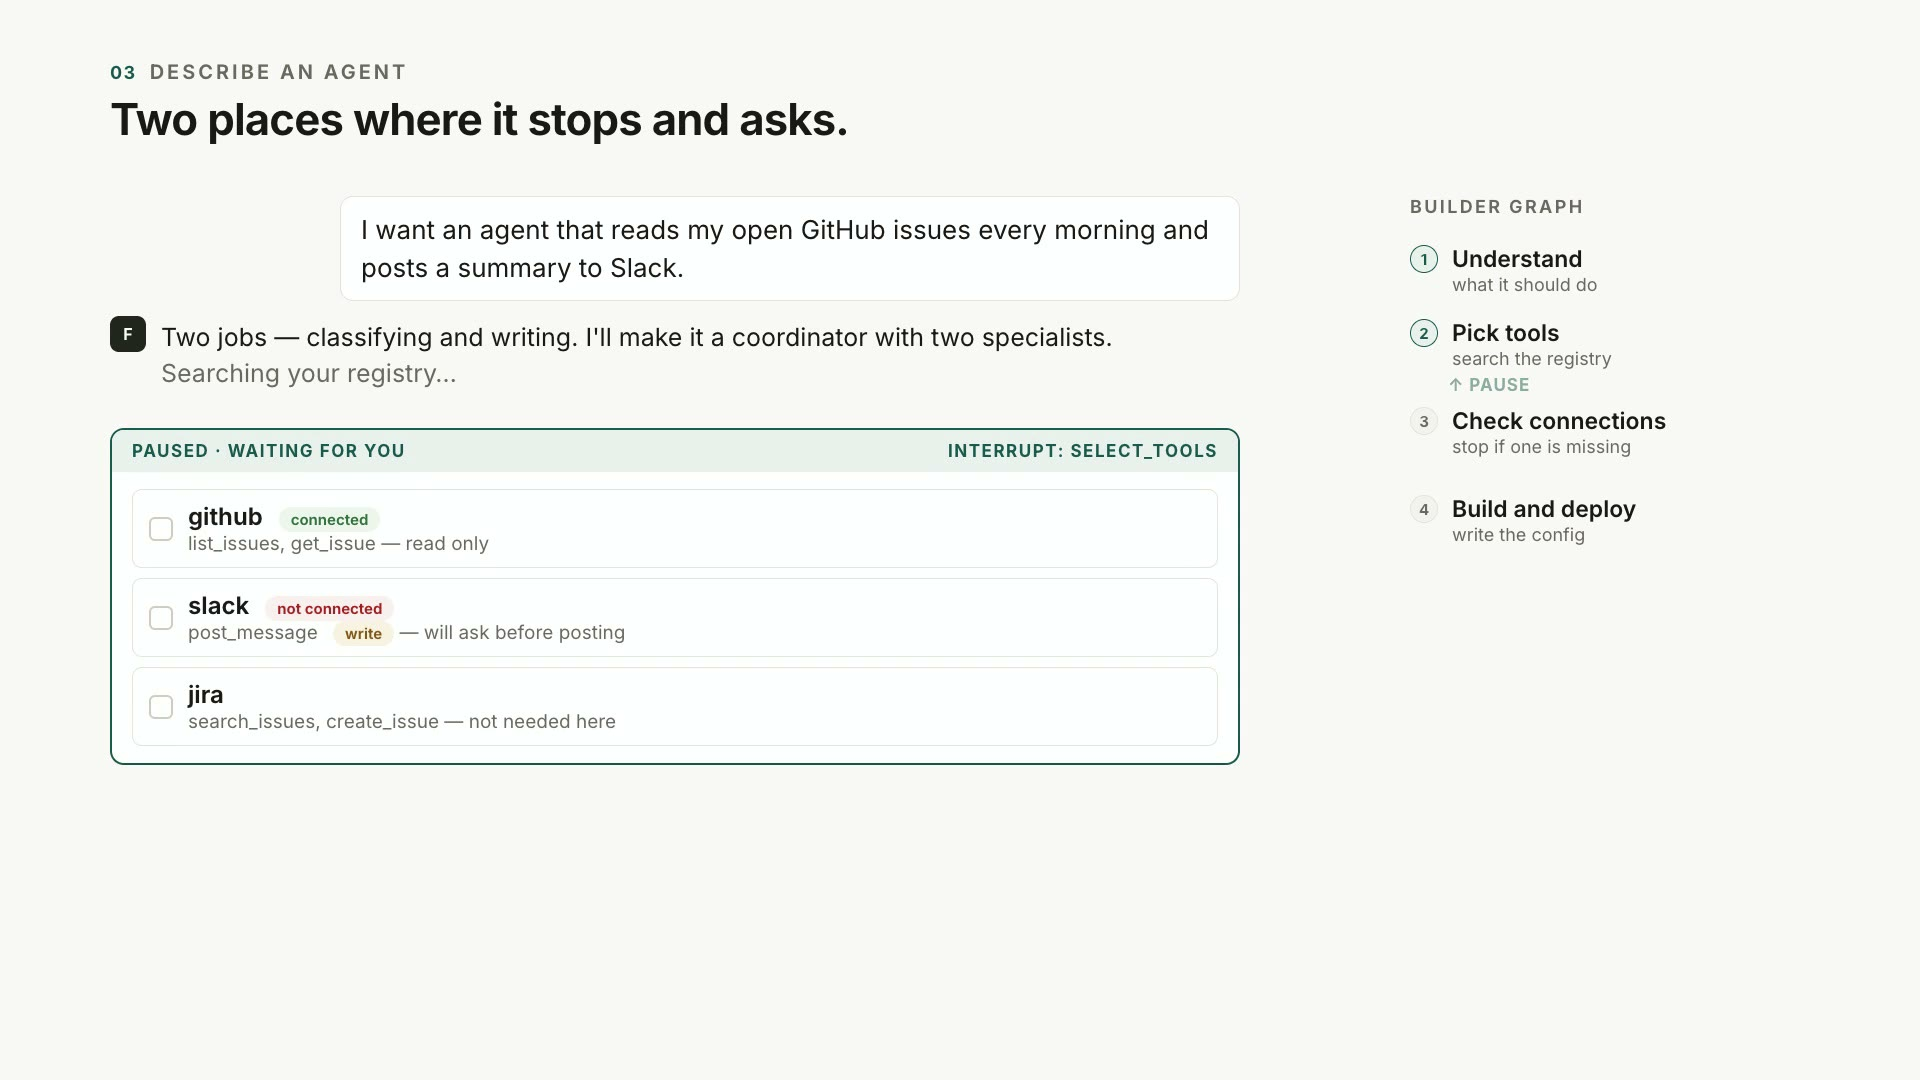
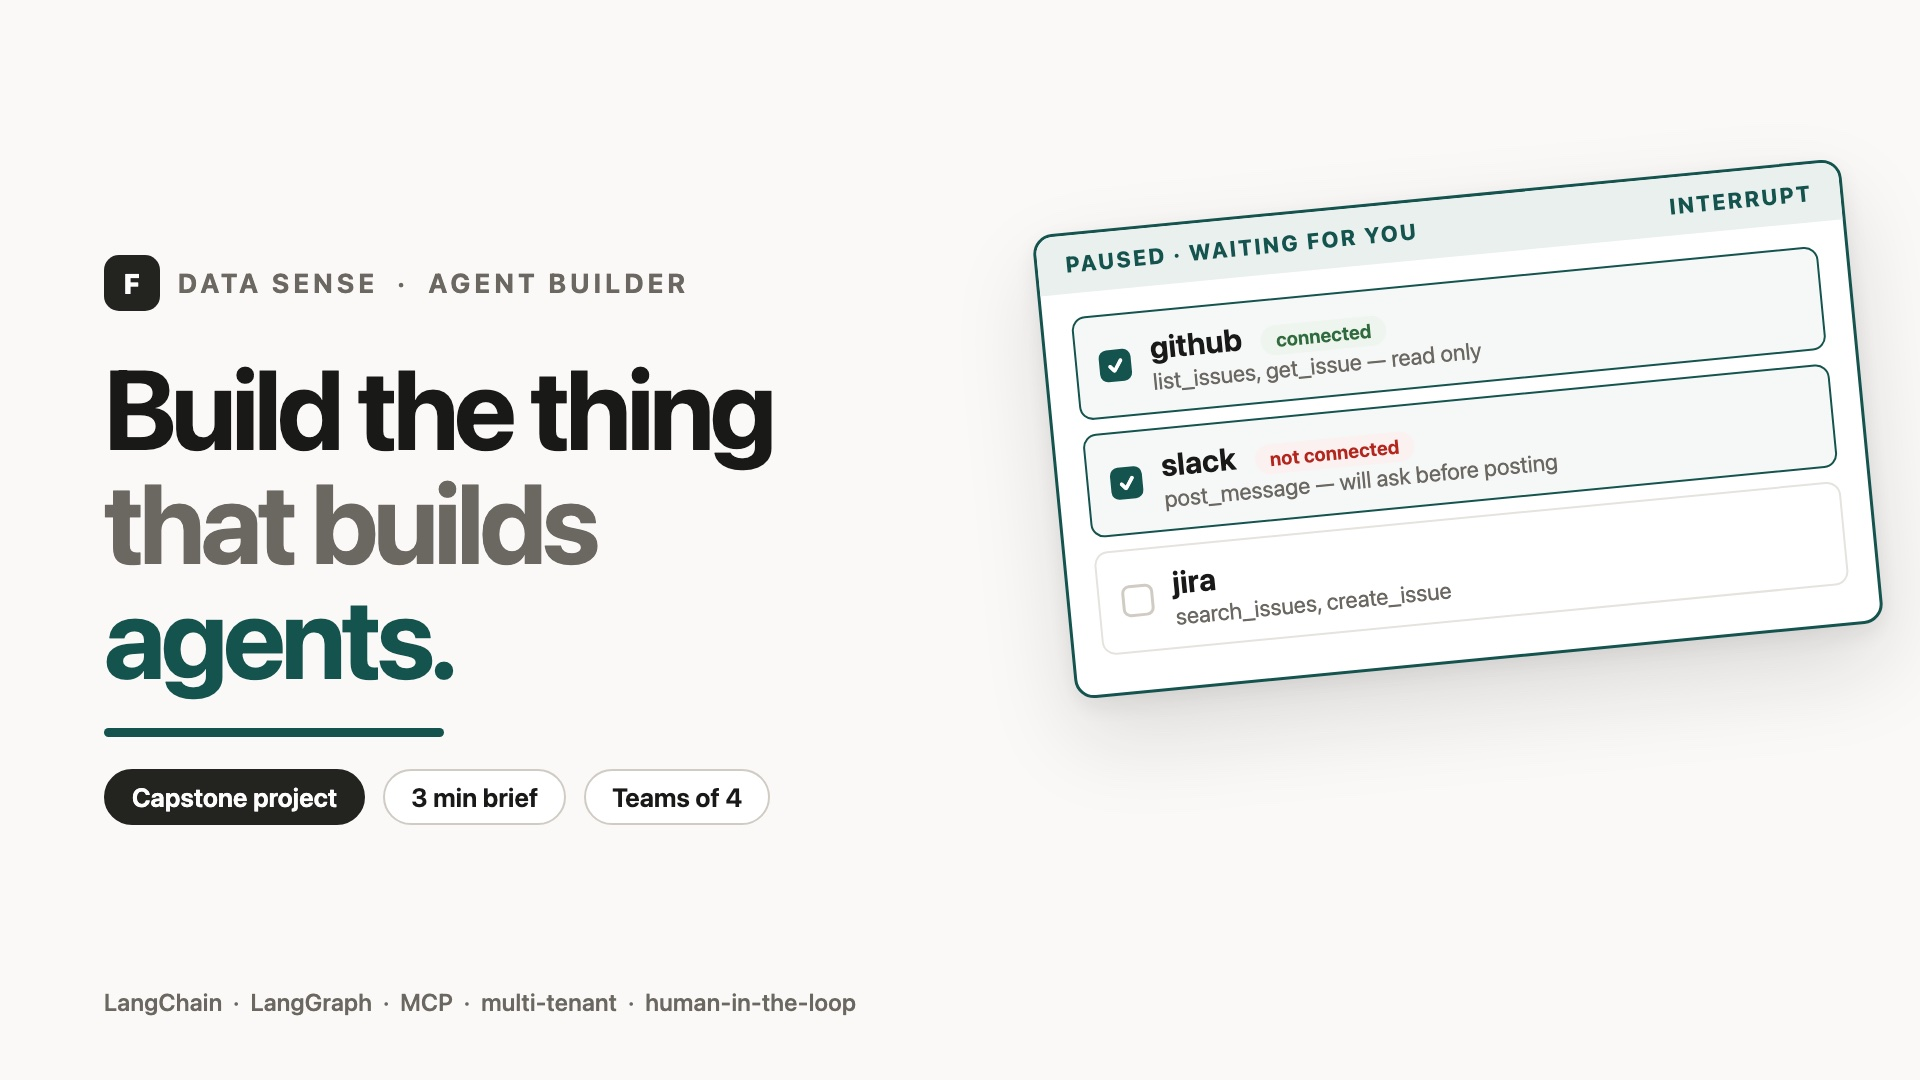
Add capstone thumbnail, announcement post, and team/deadline details
Teams of four, registration by DM, 20 September deadline, presentations
from the 21st. Designed thumbnail also serves as the video poster.

diff --git a/docs/video/thumbnail.source.html b/docs/video/thumbnail.source.html
@@ -1,0 +1,109 @@
+<!doctype html>
+<html>
+<head><meta charset="utf-8">
+<style>
+  * { margin:0; padding:0; box-sizing:border-box; }
+  html, body { width:1920px; height:1080px; overflow:hidden; }
+  body {
+    background:#faf9f7; color:#191917;
+    font-family: system-ui, -apple-system, "Helvetica Neue", Arial, sans-serif;
+    position:relative;
+  }
+
+  /* right-hand UI fragment, tilted */
+  .fragment {
+    position:absolute; right:56px; top:196px; width:812px;
+    transform: rotate(-5.5deg); transform-origin: center;
+  }
+  .panel {
+    background:#fff; border:3px solid #15544e; border-radius:20px; overflow:hidden;
+    box-shadow: 0 40px 90px rgba(25,25,23,.13), 0 8px 22px rgba(25,25,23,.07);
+  }
+  .ph {
+    background:#e9f0ee; color:#15544e; padding:16px 28px;
+    font-size:22px; font-weight:750; letter-spacing:.11em; text-transform:uppercase;
+    display:flex; justify-content:space-between; align-items:center;
+  }
+  .pb { padding:24px 28px; }
+  .pick { display:flex; align-items:center; gap:20px; padding:17px 22px;
+          border:2px solid #e5e3dd; border-radius:14px; margin-bottom:14px; }
+  .pick.on { border-color:#15544e; background:#f5f8f7; }
+  .box { width:32px; height:32px; flex:0 0 32px; border-radius:8px; border:3px solid #d0ccc4;
+         background:#fff; display:grid; place-items:center; color:#fff; font-size:19px; font-weight:900; }
+  .pick.on .box { background:#15544e; border-color:#15544e; }
+  .nm { font-size:31px; font-weight:660; }
+  .sb { font-size:23px; color:#6b6862; margin-top:2px; }
+  .tag { border-radius:999px; padding:4px 15px; font-size:19px; font-weight:680; margin-left:12px; }
+  .tag.ok { background:#eef4ee; color:#2f6b3c; }
+  .tag.no { background:#fbf1f0; color:#b3261e; }
+
+  /* left-hand type */
+  .left { position:absolute; left:104px; top:0; bottom:0; width:1000px;
+          display:flex; flex-direction:column; justify-content:center; }
+  .eyebrow { display:flex; align-items:center; gap:18px; margin-bottom:40px; }
+  .mark { width:56px; height:56px; border-radius:15px; background:#23231f; color:#fdfdfc;
+          display:grid; place-items:center; font-size:28px; font-weight:800; }
+  .ename { font-size:27px; font-weight:700; letter-spacing:.15em; text-transform:uppercase; color:#6b6862; }
+
+  h1 { font-size:112px; font-weight:700; letter-spacing:-.038em; line-height:1.02; }
+  h1 .g { color:#6b6862; }
+  h1 .t { color:#15544e; }
+  .rule { width:340px; height:9px; background:#15544e; border-radius:5px; margin:34px 0 32px; }
+
+  .meta { display:flex; align-items:center; gap:18px; }
+  .pill { border:2px solid #d0ccc4; border-radius:999px; padding:11px 26px;
+          font-size:26px; font-weight:640; color:#191917; background:#fff; }
+  .pill.solid { background:#23231f; border-color:#23231f; color:#fdfdfc; }
+
+  .corner {
+    position:absolute; left:104px; bottom:64px;
+    font-size:24px; color:#6b6862; font-weight:550; letter-spacing:.01em;
+  }
+</style>
+</head>
+<body>
+
+  <div class="fragment">
+    <div class="panel">
+      <div class="ph"><span>Paused · waiting for you</span><span>interrupt</span></div>
+      <div class="pb">
+        <div class="pick on">
+          <div class="box">✓</div>
+          <div><div class="nm">github <span class="tag ok">connected</span></div>
+               <div class="sb">list_issues, get_issue — read only</div></div>
+        </div>
+        <div class="pick on">
+          <div class="box">✓</div>
+          <div><div class="nm">slack <span class="tag no">not connected</span></div>
+               <div class="sb">post_message — will ask before posting</div></div>
+        </div>
+        <div class="pick">
+          <div class="box"></div>
+          <div><div class="nm">jira</div>
+               <div class="sb">search_issues, create_issue</div></div>
+        </div>
+      </div>
+    </div>
+  </div>
+
+  <div class="left">
+    <div class="eyebrow">
+      <span class="mark">F</span>
+      <span class="ename">Data Sense &nbsp;·&nbsp; Agent Builder</span>
+    </div>
+
+    <h1>Build the thing<br><span class="g">that builds</span><br><span class="t">agents.</span></h1>
+
+    <div class="rule"></div>
+
+    <div class="meta">
+      <span class="pill solid">Capstone project</span>
+      <span class="pill">3 min brief</span>
+      <span class="pill">Teams of 4</span>
+    </div>
+  </div>
+
+  <div class="corner">LangChain &nbsp;·&nbsp; LangGraph &nbsp;·&nbsp; MCP &nbsp;·&nbsp; multi-tenant &nbsp;·&nbsp; human-in-the-loop</div>
+
+</body>
+</html>

diff --git a/docs/index.html b/docs/index.html
@@ -85,6 +85,15 @@
     </div>
   </div>
 
+  <div class="req" style="margin-top:28px">
+    <div class="rh">Teams, deadline and presentations</div>
+    <div class="reqlist" style="margin-top:8px">
+      <div class="reqrow"><span class="pin">1</span><span class="t">Groups of <b>four only</b>. DM your team name and the four members to register — unregistered teams are not assessed.</span></div>
+      <div class="reqrow"><span class="pin">2</span><span class="t">You have <b>two weeks</b>. Submission deadline <b>20 September</b>.</span></div>
+      <div class="reqrow"><span class="pin">3</span><span class="t">Presentations start <b>21 September</b> — 45 minutes per team, live, with the system running.</span></div>
+    </div>
+  </div>
+
   <div class="section-title">Watch the brief</div>
   <div class="card" style="padding:14px">
     <video controls preload="metadata" playsinline poster="video/poster.jpg"

diff --git a/ANNOUNCEMENT.md b/ANNOUNCEMENT.md
@@ -1,0 +1,94 @@
+# Capstone announcement — paste-ready
+
+Attach: `docs/video/capstone-brief.mp4` · thumbnail `docs/video/thumbnail.png`
+
+---
+
+## Full post
+
+**Capstone Project — Build an Agent Platform**
+
+Over the last few weeks you've learned LangChain and LangGraph — graphs, state, tools, interrupts,
+checkpointers, multi-agent handoffs. Your capstone puts all of it into one product.
+
+**You are not building an agent. You are building the thing that builds agents.**
+
+A person signs in, describes an agent in plain English, and your platform works out which tools it
+needs, checks they have access to those tools, builds it and deploys it. They test it in a chat
+window. When it works, they publish it — an admin reviews it, and once approved, people in other
+companies can install it into their own workspace with their own credentials.
+
+Three tabs: an **MCP Registry**, a **Build** chat, and **My Agents**. Plus a marketplace everyone can
+install from, and an admin queue guarding the door to it.
+
+Watch the 3-minute brief above before you read anything else. 👆
+
+**Everything you need**
+
+- 📋 Problem statement — https://fnusatvik07.github.io/agent-platform-capstone/brief.html
+- 🖼 The UI you have to build — https://fnusatvik07.github.io/agent-platform-capstone/
+- ✦ The build flow (start here) — https://fnusatvik07.github.io/agent-platform-capstone/screens/build.html
+- 🎞 Slides — https://fnusatvik07.github.io/agent-platform-capstone/deck/
+- 💻 Repo — https://github.com/fnusatvik07/agent-platform-capstone
+
+There is deliberately **no starter code**. Designing the data model, the API and the agent
+configuration format *is* the capstone.
+
+**Teams**
+
+- Groups of **four only**. Not three, not five.
+- **DM me your team name and the four members** to register. Unregistered teams will not be
+  assessed.
+- Register before you start building.
+
+**Timeline**
+
+- You have **two weeks**.
+- **Submission deadline: 20 September.**
+- **Presentations start 21 September.** Each team presents live for 45 minutes — demo the flow,
+  walk through your design, and answer for the choices you made. Bring the running system; slides
+  alone will not do.
+
+**How you'll be graded**
+
+Nine checks, each one a pass or a fail, and all of them get run against your submission. Among them:
+we will delete your tenant filter and try to read another user's agents, we will search everything
+your system stored for a credential we gave you, and we will kill your server mid-build to see if it
+resumes. The full list is at the end of the problem statement — read it before you design anything.
+
+**One last thing:** nothing in this project requires a paid account. Free model tiers, or a model on
+your own machine, are fine. And don't plan on LangGraph Platform — it isn't free, and self-hosting
+its server needs a paid licence key. Run your own server from day one.
+
+Questions in the thread. Good luck. 🚀
+
+---
+
+## Short version — for a chat / reminder
+
+**Capstone is live: build an agent platform.** 🎥 3-min brief attached.
+
+You're building the platform that *builds* agents — MCP registry, a chat that assembles an agent for
+you, a playground to test it, and a human-reviewed marketplace.
+
+📋 Brief: https://fnusatvik07.github.io/agent-platform-capstone/brief.html
+🖼 The UI to build: https://fnusatvik07.github.io/agent-platform-capstone/
+
+**Teams of 4 only.** DM me your team name + members to register.
+**Deadline: 20 September.** Presentations start 21 September — 45 minutes per team, live, with the
+system running.
+
+No starter code, and nothing here needs a paid account.
+
+---
+
+## Reminder — a few days before the deadline
+
+Capstone check-in ⏳
+
+- Deadline is **20 September**. Presentations start the **21st**.
+- If you haven't registered your team of four with me yet, DM me today.
+- Before you submit, run the nine checks yourself — they're at the end of the brief:
+  https://fnusatvik07.github.io/agent-platform-capstone/brief.html
+- The two that catch most teams: a credential turning up in a trace, and a build that doesn't
+  resume after the server restarts.

diff --git a/PROBLEM-STATEMENT.md b/PROBLEM-STATEMENT.md
@@ -233,6 +233,13 @@ can produce agents shaped like this, and not just simple ones.
 | **3. A design document** | One or two pages: how you made each rule true, and what you would do differently with another month. |
 | **4. The multi-agent demo agent** | Built through your own platform. |
 
+### Teams and dates
+
+- **Groups of four only.** Not three, not five.
+- **Register by DMing your team name and the four members.** Unregistered teams are not assessed.
+- **You have two weeks. The submission deadline is 20 September.**
+- **Presentations start 21 September.**
+
 ### The presentation
 
 You will present your work **live for 45 minutes**. Plan for roughly:

diff --git a/docs/problem-statement.md b/docs/problem-statement.md
@@ -233,6 +233,13 @@ can produce agents shaped like this, and not just simple ones.
 | **3. A design document** | One or two pages: how you made each rule true, and what you would do differently with another month. |
 | **4. The multi-agent demo agent** | Built through your own platform. |
 
+### Teams and dates
+
+- **Groups of four only.** Not three, not five.
+- **Register by DMing your team name and the four members.** Unregistered teams are not assessed.
+- **You have two weeks. The submission deadline is 20 September.**
+- **Presentations start 21 September.**
+
 ### The presentation
 
 You will present your work **live for 45 minutes**. Plan for roughly:
